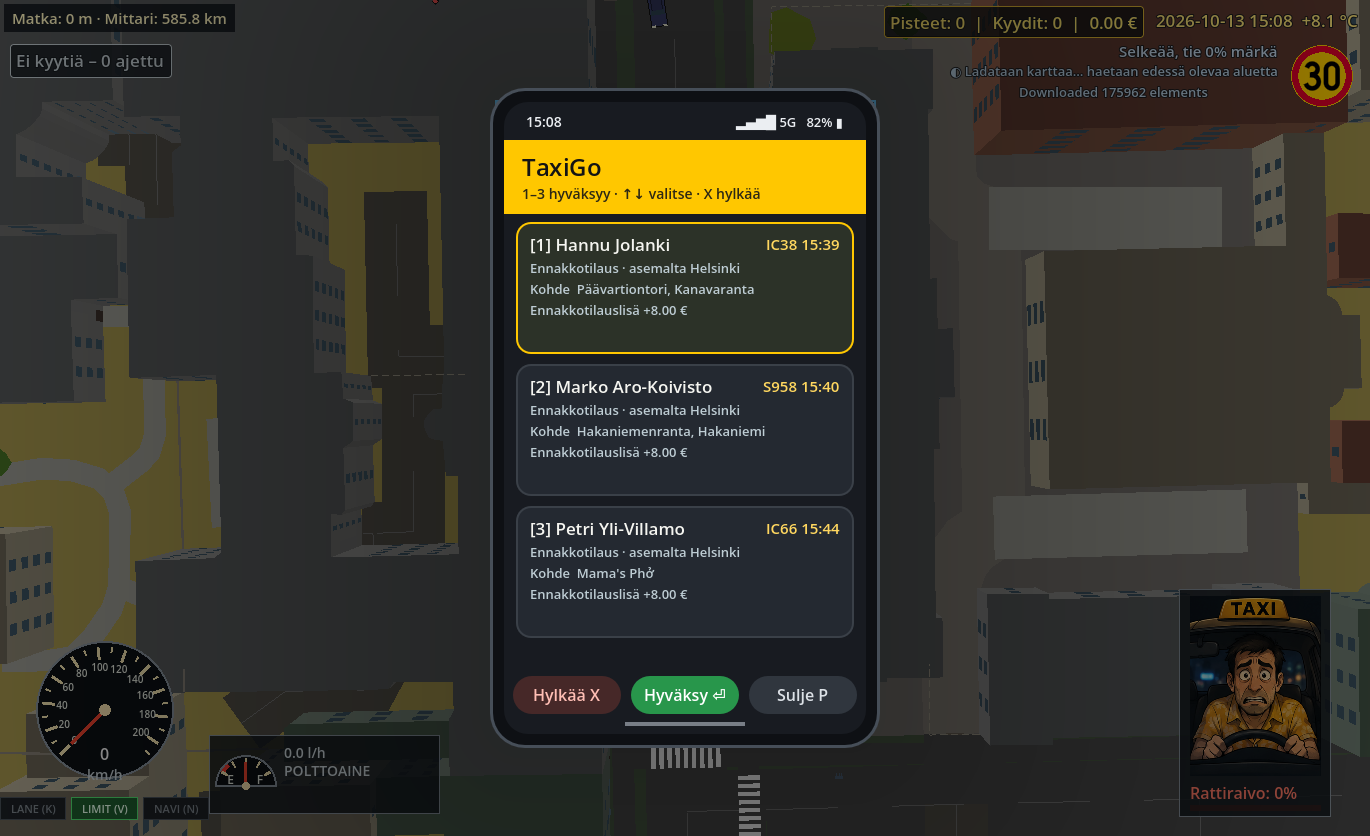
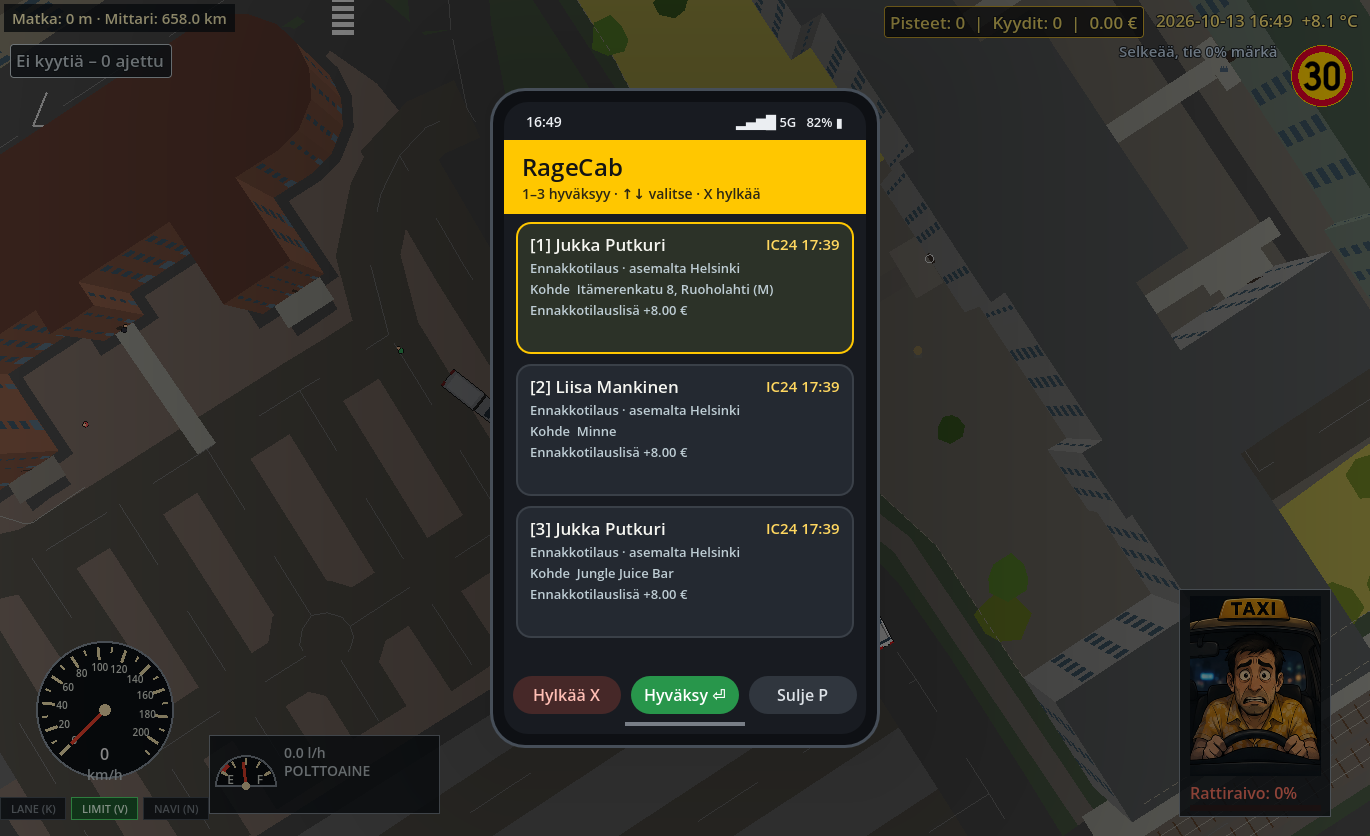
Website: RageCab phone screenshot

diff --git a/web/index.html b/web/index.html
@@ -47,7 +47,7 @@
         <figure><a href="assets/godot-city.png" target="_blank"><img src="assets/godot-city.png" alt="Helsinki päivällä: vesistöt, sillat ja junien saapumistaulu" loading="lazy"></a><figcaption>Kaupunki ja junat / City and trains</figcaption></figure>
         <figure><a href="assets/godot-night.png" target="_blank"><img src="assets/godot-night.png" alt="Iltaruuhka Helsingin valaistuilla kaduilla" loading="lazy"></a><figcaption>Yöruuhka / Night traffic</figcaption></figure>
         <figure><a href="assets/godot-winter.png" target="_blank"><img src="assets/godot-winter.png" alt="Lumisade Oulun asemalla, juna raiteilla" loading="lazy"></a><figcaption>Talvi ja junat / Winter trains</figcaption></figure>
-        <figure><a href="assets/godot-phone.png" target="_blank"><img src="assets/godot-phone.png" alt="TaxiGo-puhelin: junamatkustajien ennakkotilaukset" loading="lazy"></a><figcaption>Kyytitilaukset / Phone orders</figcaption></figure>
+        <figure><a href="assets/godot-phone.png" target="_blank"><img src="assets/godot-phone.png" alt="RageCab-puhelin: junamatkustajien ennakkotilaukset" loading="lazy"></a><figcaption>Kyytitilaukset / Phone orders</figcaption></figure>
         <figure><a href="assets/godot-finland-map.png" target="_blank"><img src="assets/godot-finland-map.png" alt="Aloituspaikan valinta Suomen kartalta" loading="lazy"></a><figcaption>Suomen kartta / Map of Finland</figcaption></figure>
         <figure><a href="assets/godot-forecast.png" target="_blank"><img src="assets/godot-forecast.png" alt="Aloitusnäyttö ja oikea sääennuste" loading="lazy"></a><figcaption>Sääennuste / Live forecast</figcaption></figure>
       </div>
